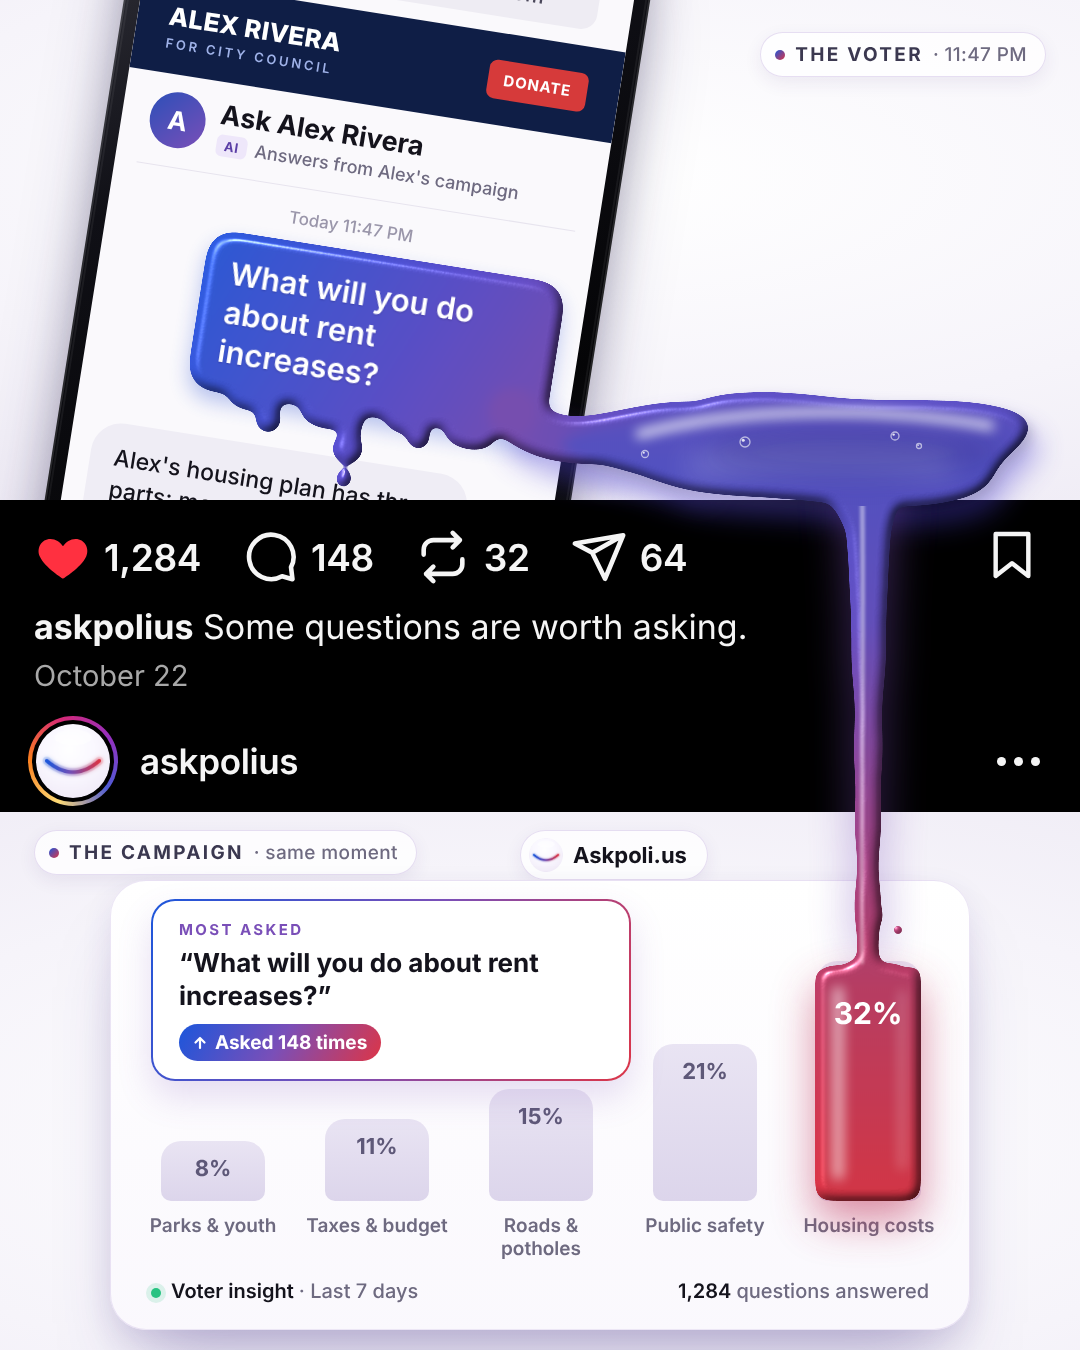
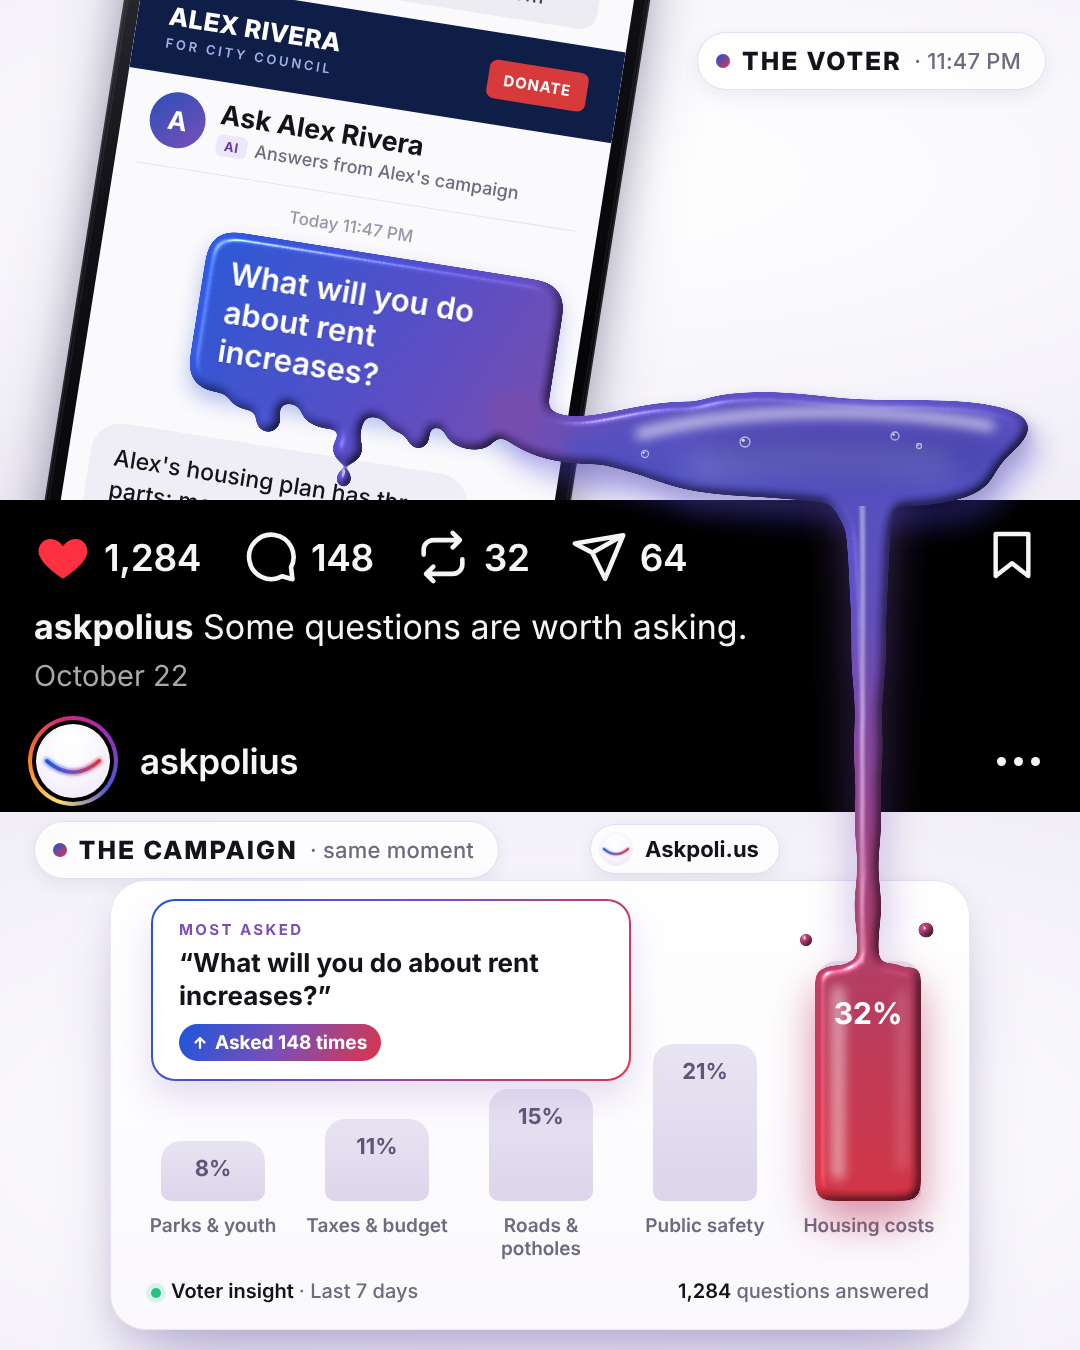
Slide 1: bolder voter/campaign tags, cleaner splash
Claude-Session: https://claude.ai/code/session_01SShT3dbSYkGvjEDFvWeJak

Changed region(s): [[0.0306, 0.6222, 0.4278, 0.6533], [0.6722, 0.0311, 0.9472, 0.0622], [0.5194, 0.6222, 0.7028, 0.6533]]

diff --git a/carousel/source/post.html b/carousel/source/post.html
@@ -26,13 +26,13 @@
   #bottom { top: 812px; height: 538px;
     background: radial-gradient(120% 90% at 50% 60%, #FFFFFF 0%, #F6F4FA 55%, #ECE8F3 100%); }
 
-  .tag { position: absolute; display: flex; align-items: center; gap: 10px; padding: 10px 18px 10px 14px; border-radius: 999px;
+  .tag { position: absolute; display: flex; align-items: center; gap: 12px; padding: 13px 24px 13px 18px; border-radius: 999px;
     background: rgba(255,255,255,0.78); border: 1px solid rgba(122,79,184,0.18); box-shadow: 0 6px 18px rgba(60,40,120,0.08);
-    font: 700 19px 'Inter'; letter-spacing: 0.12em; color: #3B3850; text-transform: uppercase; }
-  .tag i { width: 10px; height: 10px; border-radius: 50%; background: linear-gradient(135deg, var(--blue), var(--red)); }
+    font: 800 25px 'InterDisplay'; letter-spacing: 0.1em; color: #14131C; text-transform: uppercase; }
+  .tag i { width: 14px; height: 14px; border-radius: 50%; background: linear-gradient(135deg, var(--blue), var(--red)); }
   .brandtag { text-transform: none; letter-spacing: 0; font: 700 22px 'Inter'; color: var(--ink); padding: 7px 20px 7px 8px; }
   .brandtag img { width: 34px; height: 34px; border-radius: 50%; }
-  .tag span { font-weight: 500; letter-spacing: 0.02em; text-transform: none; color: var(--muted); }
+  .tag span { font: 500 22px 'Inter'; letter-spacing: 0.01em; text-transform: none; color: var(--muted); }
 
   /* ---------- phone ---------- */
   #phone { position: absolute; left: 70px; top: -160px; width: 520px; height: 1040px; border-radius: 86px;
@@ -165,8 +165,8 @@
 
   <!-- BOTTOM "POST": the campaign -->
   <div class="studio" id="bottom">
-    <div class="tag" style="left:34px; top:18px"><i></i>The campaign <span>· same moment</span></div>
-    <div class="tag brandtag" style="left:520px; top:18px"><img src="poli-orb.png">Askpoli.us</div>
+    <div class="tag" style="left:34px; top:9px"><i></i>The campaign <span>· same moment</span></div>
+    <div class="tag brandtag" style="left:590px; top:12px"><img src="poli-orb.png">Askpoli.us</div>
   </div>
   <div id="card">
     <div class="bars" id="bars"></div>
@@ -324,7 +324,7 @@ el('path', { d: tongue, fill: 'url(#liq)' }, gOut);
 el('path', { d: pourD, fill: 'url(#liq)' }, gOut);
 el('path', { d: barD, fill: 'url(#liq)' }, gOut);
 // splash droplets thrown up where the stream lands
-[[-34, -22, 6], [30, -30, 7], [46, -12, 4], [-50, -8, 4], [12, -44, 4]].forEach(([dx, dy, rr]) => el('circle', { cx: SX + dx, cy: hb.top + dy, r: rr, fill: 'url(#liq)' }, gOut));
+[[-62, -20, 8], [58, -30, 9], [76, -8, 6], [-44, -46, 6], [36, -58, 5]].forEach(([dx, dy, rr]) => el('circle', { cx: SX + dx, cy: hb.top + dy, r: rr, fill: 'url(#liq)' }, gOut));
 // surface reflections (studio softbox) + thin, see-through edges, clipped to the liquid
 const cp = el('clipPath', { id: 'pudClip' }, defs); el('path', { d: pud }, cp); el('path', { d: spillD }, cp); el('path', { d: tongue }, cp);
 const refl = el('g', { 'clip-path': 'url(#pudClip)' });
